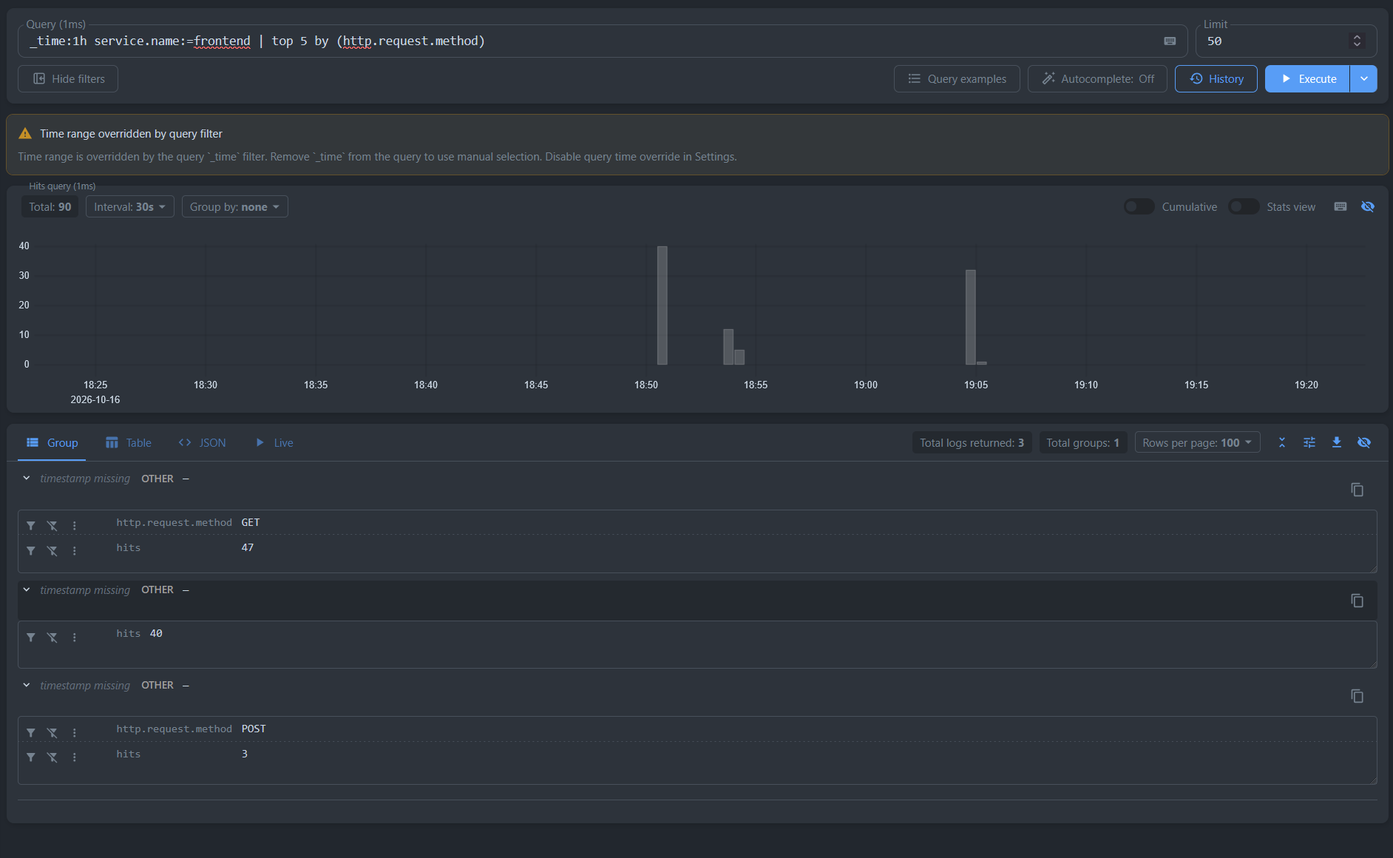
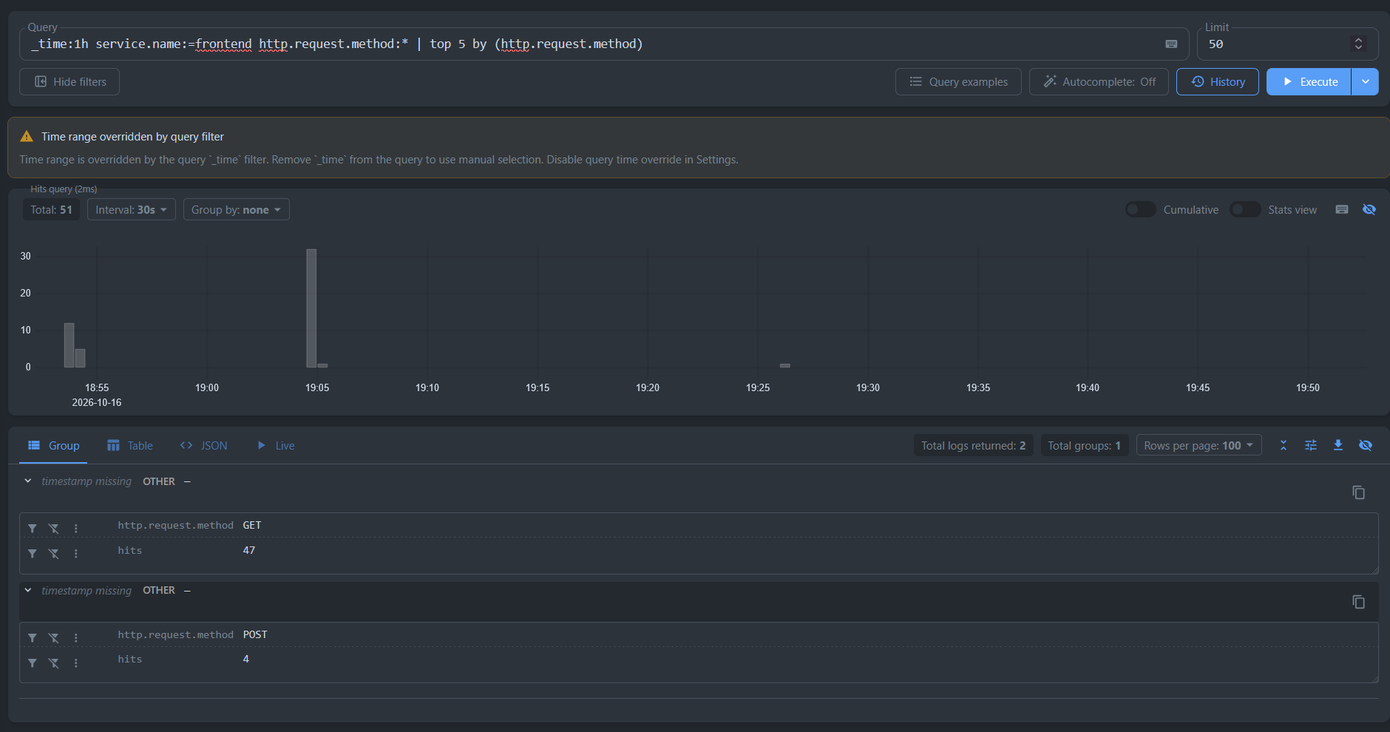
logging feat: Изменения отчета

diff --git a/k8s/logging/Отчёт.md b/k8s/logging/Отчёт.md
@@ -1,6 +1,6 @@
 # Отчёт: доставка логов MineCoin в VictoriaLogs
 
-В тот же кластер minikube, где работает MineCoin (см. [`../Отчёт.md`](../Отчёт.md)), развёрнуты:
+В тот же кластер minikube, где работает MineCoin (см. [`../Отчёт_k8s.md`](../Отчёт_k8s.md)), развёрнуты:
 - **VictoriaLogs** (single-node) — хранилище логов с языком запросов LogsQL и веб-интерфейсом vmui;
 - **Vector** — агент, который на каждом узле читает логи контейнеров и отправляет их в VictoriaLogs.
 
@@ -67,8 +67,8 @@ flowchart LR
 ## 2. Развёртывание VictoriaLogs
 
 **Способ — собственные манифесты** (StatefulSet + Service + PVC), а не Helm-чарт `victoria-logs-single`.
-- были написаны манифесты проекта, применяются через `kubectl apply`, без дополнительных инструментов;
-- для single-node VictoriaLogs нужно всего три объекта, что было легче писать.
+- все манифесты проекта написаны вручную в одном стиле и применяются через `kubectl apply`, без дополнительных инструментов вроде Helm;
+- для single-node VictoriaLogs достаточно трёх объектов, и назначение каждого понятно и описано ниже; чарт создал бы больше объектов, которые пришлось бы отдельно разбирать.
 
 | Объект | Зачем                                                                                                                                                  |
 |---|--------------------------------------------------------------------------------------------------------------------------------------------------------|
@@ -86,54 +86,17 @@ flowchart LR
 
 ## 3. Доставка логов: Vector как DaemonSet
 
-### Почему именно так
+Логи собирает **Vector**, запущенный как **DaemonSet** — по одному агенту на каждый узел кластера ([`22_vector_daemonset.yml`](22_vector_daemonset.yml), конфигурация — [`21_vector_config.yml`](21_vector_config.yml)). Агент читает логи всех контейнеров приложения из `/var/log/pods` на узле, разбирает JSON, приводит поля разных сервисов к одинаковым именам (`log.level`, `service.name`) и отправляет записи в VictoriaLogs через её Elasticsearch-совместимый API (`/insert/elasticsearch/`).
 
-| Вариант из задания | Почему не выбран |
-|---|---|
-| сайдкар с агентом в каждом поде | по агенту на каждый под: при 7 подах приложения — 7 агентов, каждый с запасом памяти; пришлось бы менять манифесты всех Deployment |
-| прямой push из приложения (Logback-appender в ES/Loki) | приложение начинает зависеть от системы логирования и знать её адрес (нарушение фактора XI: приложение пишет логи в stdout, а маршрутизация — забота окружения); nginx и PostgreSQL так не умеют; нужно менять код |
-| OpenTelemetry Collector | тоже рабочий вариант (DaemonSet с `filelog`), но конфигурация сложнее, а метрики и трейсы нам не нужны |
-| **DaemonSet с Vector** | **выбран** |
-
-Плюсы DaemonSet:
-- **один агент на узел** читает логи **всех** контейнеров узла из `/var/log/pods`, куда Kubernetes и так сохраняет stdout/stderr контейнеров;
-- **приложение не меняется**: оно просто пишет в stdout, как требует фактор XI;
-- новые поды (масштабирование, обновление) подхватываются автоматически;
-- к каждой строке добавляются метаданные Kubernetes: namespace, под, контейнер, узел.
-
-Почему Vector, а не Fluent Bit: оба подходят, но у Vector есть язык преобразований VRL, на котором разбор JSON и нормализация полей записываются в несколько понятных строк. У VictoriaLogs есть документированная интеграция с Vector.
-
-### Что делает каждая часть конфигурации ([`21_vector_config.yml`](21_vector_config.yml))
-
-**Источник `kubernetes_logs`** читает файлы логов подов на своём узле. `extra_field_selector: metadata.namespace=minecoin` — собираются логи **только приложения**: не системных подов и не самого стека логирования (иначе Vector отправлял бы в VictoriaLogs собственные логи о доставке логов).
-
-**Преобразование `normalize` (VRL):**
-1. `parse_json(.message)` — если строка лога — JSON-объект (Spring, nginx), его поля поднимаются на верхний уровень события, а исходная строка заменяется полем `message` из JSON;
-2. `del(...)` — удаляются шумные метаданные (аннотации и метки namespace и узла, хеш шаблона, идентификаторы контейнеров), которые не нужны для поиска, но занимают место;
-3. `flatten(., ".")` — вложенные объекты превращаются в плоские имена через точку: `{"log":{"level":"WARN"}}` от Spring становится `log.level`, так же как у nginx. В результате у всех сервисов одинаковые имена полей;
-4. для **текстовых** строк (PostgreSQL, служебные сообщения nginx при старте и его error-лог) `service.name` берётся из имени контейнера, а `log.level` определяется по словам `error`, `fatal`, `warn` и т.п. в тексте (иначе `INFO`). Синонимы приводятся к трём уровням: `FATAL`, `PANIC`, `CRIT` → `ERROR`, `WARNING` → `WARN`.
-
-**Отправка `elasticsearch` → VictoriaLogs.** VictoriaLogs принимает данные по протоколу Elasticsearch bulk API (`/insert/elasticsearch/`). У Vector для него зрелый приёмник с пакетной отправкой, сжатием (`gzip`) и повторами при ошибках. Параметры `query` сообщают VictoriaLogs, как трактовать поля:
-- `_msg_field: message` — поле с текстом сообщения (`_msg` в LogsQL);
-- `_time_field: timestamp` — поле со временем записи (`_time`);
-- `_stream_fields: kubernetes.pod_namespace,kubernetes.pod_name,kubernetes.container_name` — **поток** (stream) логов: строки одного контейнера одного пода хранятся вместе. В потоки входят только поля с небольшим числом значений; `request_id` или `url.path` туда класть нельзя;
-- `healthcheck.enabled: false` — Vector не проверяет кластер Elasticsearch при старте (VictoriaLogs не реализует эту служебную проверку).
-
-### DaemonSet и права ([`22_vector_daemonset.yml`](22_vector_daemonset.yml), [`20_vector_rbac.yml`](20_vector_rbac.yml))
-
-- **ClusterRole** с правами `get`, `list` и `watch` на `pods`, `namespaces`, `nodes`: по ним Vector узнаёт, какому поду и контейнеру принадлежит файл лога;
-- `VECTOR_SELF_NODE_NAME` из `spec.nodeName` — каждый экземпляр Vector обрабатывает только поды своего узла;
-- монтирования с узла (`hostPath`, только чтение):
-    - `/var/log` — там `/var/log/pods` с логами контейнеров;
-    - `/var/lib` и `/mnt` — файлы в `/var/log/pods` часто являются символическими ссылками на каталоги среды выполнения: при Docker это `/var/lib/docker/containers/…`, а в виртуальной машине minikube эти каталоги лежат на постоянном диске, смонтированном в `/mnt`. Без этих монтирований ссылки внутри контейнера Vector вели бы в никуда;
-- `/var/lib/vector` с узла → `/vector-data-dir` (запись) — Vector запоминает, до какого места прочитан каждый файл, и после перезапуска не отправляет логи повторно;
-- `tolerations` для `control-plane` — агент запускается и на управляющем узле (актуально для кластеров из нескольких узлов, например kind);
-- пробы — `GET /health` встроенного API Vector на порту 8686;
-- ресурсы — `requests` 50m CPU / 64Mi, `limits` 256Mi.
+Почему такой способ:
+- **приложение не меняется**: сервисы просто пишут логи в stdout (фактор XI 12-factor), а сбор и доставка — забота окружения. При прямой отправке из приложения пришлось бы менять код, а nginx и PostgreSQL так не умеют;
+- **один агент на узел** вместо агента-сайдкара в каждом поде: меньше потребление ресурсов, и не нужно менять манифесты сервисов;
+- **новые поды подхватываются автоматически** при масштабировании и обновлении, а к каждой записи добавляются метаданные Kubernetes (под, контейнер, узел);
+- **Vector** выбран за язык преобразований VRL, на котором разбор JSON и нормализация полей занимают несколько строк, и за документированную интеграцию с VictoriaLogs.
 
 ## 4. Развёртывание
 
-Приложение уже развёрнуто по [`../Отчёт.md`](../Отчёт.md). Образ `frontend` нужно пересобрать, потому что изменился конфиг nginx (сборка и загрузка — как в разделе 1 основного отчёта), затем перезапустить его поды:
+Приложение уже развёрнуто по [`../Отчёт_k8s.md`](../Отчёт_k8s.md). Образ `frontend` нужно пересобрать, потому что изменился конфиг nginx (сборка и загрузка — как в разделе 1 основного отчёта), затем перезапустить его поды:
 ```powershell
 kubectl rollout restart deployment/frontend -n minecoin
 ```
@@ -165,13 +128,15 @@ kubectl port-forward svc/victorialogs 9428:9428 -n logging
 
 ## 5. Запросы LogsQL в vmui
 
-В vmui запрос вводится в поле Query. Временной диапазон задаётся либо в самом запросе (`_time:…`).
+В vmui запрос вводится в поле Query. Временной диапазон задаётся либо в самом запросе (`_time:…`), либо переключателем времени в интерфейсе; во всех запросах ниже он указан в самом запросе.
 
 ### (а) Сырые записи за последние 5 минут
 
 ```
 _time:5m
 ```
+
+Вывожу все записи, которые пришли в VictoriaLogs за последние 5 минут. Запрос показал 17 записей — это access-лог nginx (`frontend`) после того, как я открыл приложение и вошёл: загрузка страницы и статики (`index.html`, `js`, `css`) и запросы к API после входа (`POST /api/auth/login`, `GET /api/users/me`, `GET /api/wallets/…`). Все со статусом 200, поэтому уровень `INFO`.
 
 ![img.png](../../images/img.png)
 
@@ -182,7 +147,8 @@ _time:5m
 _time:5m log.level:=WARN
 ```
 
-![img_1.png](../../images/img_1.png)
+Фильтрую записи за 5 минут по полю `log.level`, оставляю только уровень `WARN`, чтобы отличить от `INFO`. Запрос показал 1 запись: `POST /api/wallets/me/transfer 404` — перед проверкой я попытался перевести деньги несуществующему пользователю, `finance-service` ответил 404 `RECIPIENT_NOT_FOUND`, и nginx записал этот ответ как `WARN`.
+
 ![img_2.png](../../images/img_2.png)
 
 ### (в) `stats` с группировкой: число записей по сервисам и уровням
@@ -191,13 +157,17 @@ _time:5m log.level:=WARN
 _time:5m | stats by (service.name, log.level) count() as logs
 ```
 
+Группирую записи за 5 минут по паре «сервис — уровень» и считаю количество записей в каждой группе. Запрос показал три группы: `frontend / INFO` — 32 записи, `frontend / WARN` — 1 запись, `postgres / INFO` — 2 записи (служебные сообщения PostgreSQL, они текстовые, и уровень для них определил Vector). Java-сервисов в результате нет, потому что за эти 5 минут они ничего не писали: обычные запросы логирует nginx, а `user-service` и `finance-service` пишут в лог при запуске, предупреждениях и ошибках.
+
 ![img_3.png](../../images/img_3.png)
 
-### (г) Агрегирующий запрос: 95-й перцентиль времени ответа по адресам API
+### (г) Агрегирующие запросы: top, quantile, count_uniq
 
 ```
-_time:1h service.name:=frontend | top 5 by (http.request.method)
+_time:1h service.name:=frontend http.request.method:* | top 5 by (http.request.method)
 ```
+
+Вывожу топ-5 самых частых HTTP-методов в запросах через шлюз за последний час через `top`. Фильтр `http.request.method:*` убирает служебные nginx логи, у которых тоже `service.name` это `frontend`, чтобы не выделялись в отдельную категорию. Запрос показал два метода: `GET` — 47 запросов (статика, профиль, баланс, история), `POST` — 4 запроса (вход, пополнение, перевод). `PUT` и `DELETE` за этот час не вызывались, поэтому строк в топе две, а не пять.
 
 ![img_4.png](../../images/img_4.png)
 
@@ -205,11 +175,15 @@ _time:1h service.name:=frontend | top 5 by (http.request.method)
 _time:1h service.name:=frontend | stats by (http.request.method) quantile(0.95, http.request.duration_seconds) p95
 ```
 
+Считаю 95-й перцентиль времени ответа через `quantile` отдельно для каждого HTTP-метода за последний час — время, в которое уложились 95% запросов. Запрос показал: `POST` — 0,595 с, `GET` — 0,296 с. `POST` ожидаемо медленнее: это вход (проверка пароля через BCrypt специально сделана медленной) и денежные операции с записью в базу и блокировкой кошелька, а `GET` в основном отдаёт статику и читает данные. Размер ответа в байтах, как в упражнении с семинара, nginx в наш лог не пишет, поэтому вместо него взято время ответа.
+
 ![img_5.png](../../images/img_5.png)
 
 ```
-_time:5m service.name:=frontend http.response.status_code:>=400 | stats count_uniq(client.address) clients
+_time:1h service.name:=frontend http.response.status_code:>=400 | stats count_uniq(client.address) clients
 ```
+
+Агрегирую ошибочные ответы шлюза через `count_uniq` (код ответа >= 400) за последний час и считаю, сколько среди них уникальных клиентов (`count_uniq` по `client.address`). За час таких записей 2 (на графике — около 19:05 и около 19:25): неудачный перевод несуществующему получателю из запроса (б) и попытка войти как несуществующий пользователь. Но запрос показал 1 клиента, потому что у обеих записей одинаковый `client.address`: в minikube запросы снаружи проходят через NAT узла, и nginx видит один и тот же адрес для всех клиентов.
 
 ![img_6.png](../../images/img_6.png)
 
@@ -220,7 +194,7 @@ _time:5m service.name:=frontend http.response.status_code:>=400 | stats count_un
 | VictoriaLogs | 100m | 128Mi | 512Mi |
 | Vector (на каждый узел) | 50m | 64Mi | 256Mi |
 
-Вместе с приложением это укладывается в рекомендуемые 4 CPU / 6 ГиБ для minikube (расчёт — в разделе 0 [`../Отчёт.md`](../Отчёт.md)).
+Вместе с приложением это укладывается в рекомендуемые 4 CPU / 6 ГиБ для minikube (расчёт — в разделе 0 [`../Отчёт_k8s.md`](../Отчёт_k8s.md)).
 
 Удалить стек логирования вместе с сохранёнными логами (при удалении namespace `logging` удаляется и его PVC; ClusterRole и ClusterRoleBinding удаляются той же командой, так как описаны в тех же файлах):
 ```powershell

diff --git a/HomeWork_README.md b/HomeWork_README.md
@@ -1,9 +1,12 @@
 ## Информация для сдачи ДЗ
 
 - **Номер дз:** 3
-- **Версия проекта:** logging
-- **Расположение отчета по текущему дз:** [Отчёт_logging.md](k8s/logging/%D0%9E%D1%82%D1%87%D1%91%D1%82_logging.md)
+- **Ветка проекта:** logging
+- **Расположение отчета по текущему дз:** [k8s/logging/Отчёт.md](k8s/logging/%D0%9E%D1%82%D1%87%D1%91%D1%82.md)
+
+  - Отчет содержит скриншоты с query к `VictoriaLogs` 
+
 - **Артефакты для проверки:**
 
-  - Манифесты для запуска `victoria-logs`:  `k8s/logging`
-  - Изменения формата логов `Frontend`: [default.conf.template](Frontend/nginx/default.conf.template)
+  - Манифесты развёртывания `VictoriaLogs` и доставки логов (`Vector`): `k8s/logging/`
+  - Изменение формата логов `nginx`: [default.conf.template](Frontend/nginx/default.conf.template)
